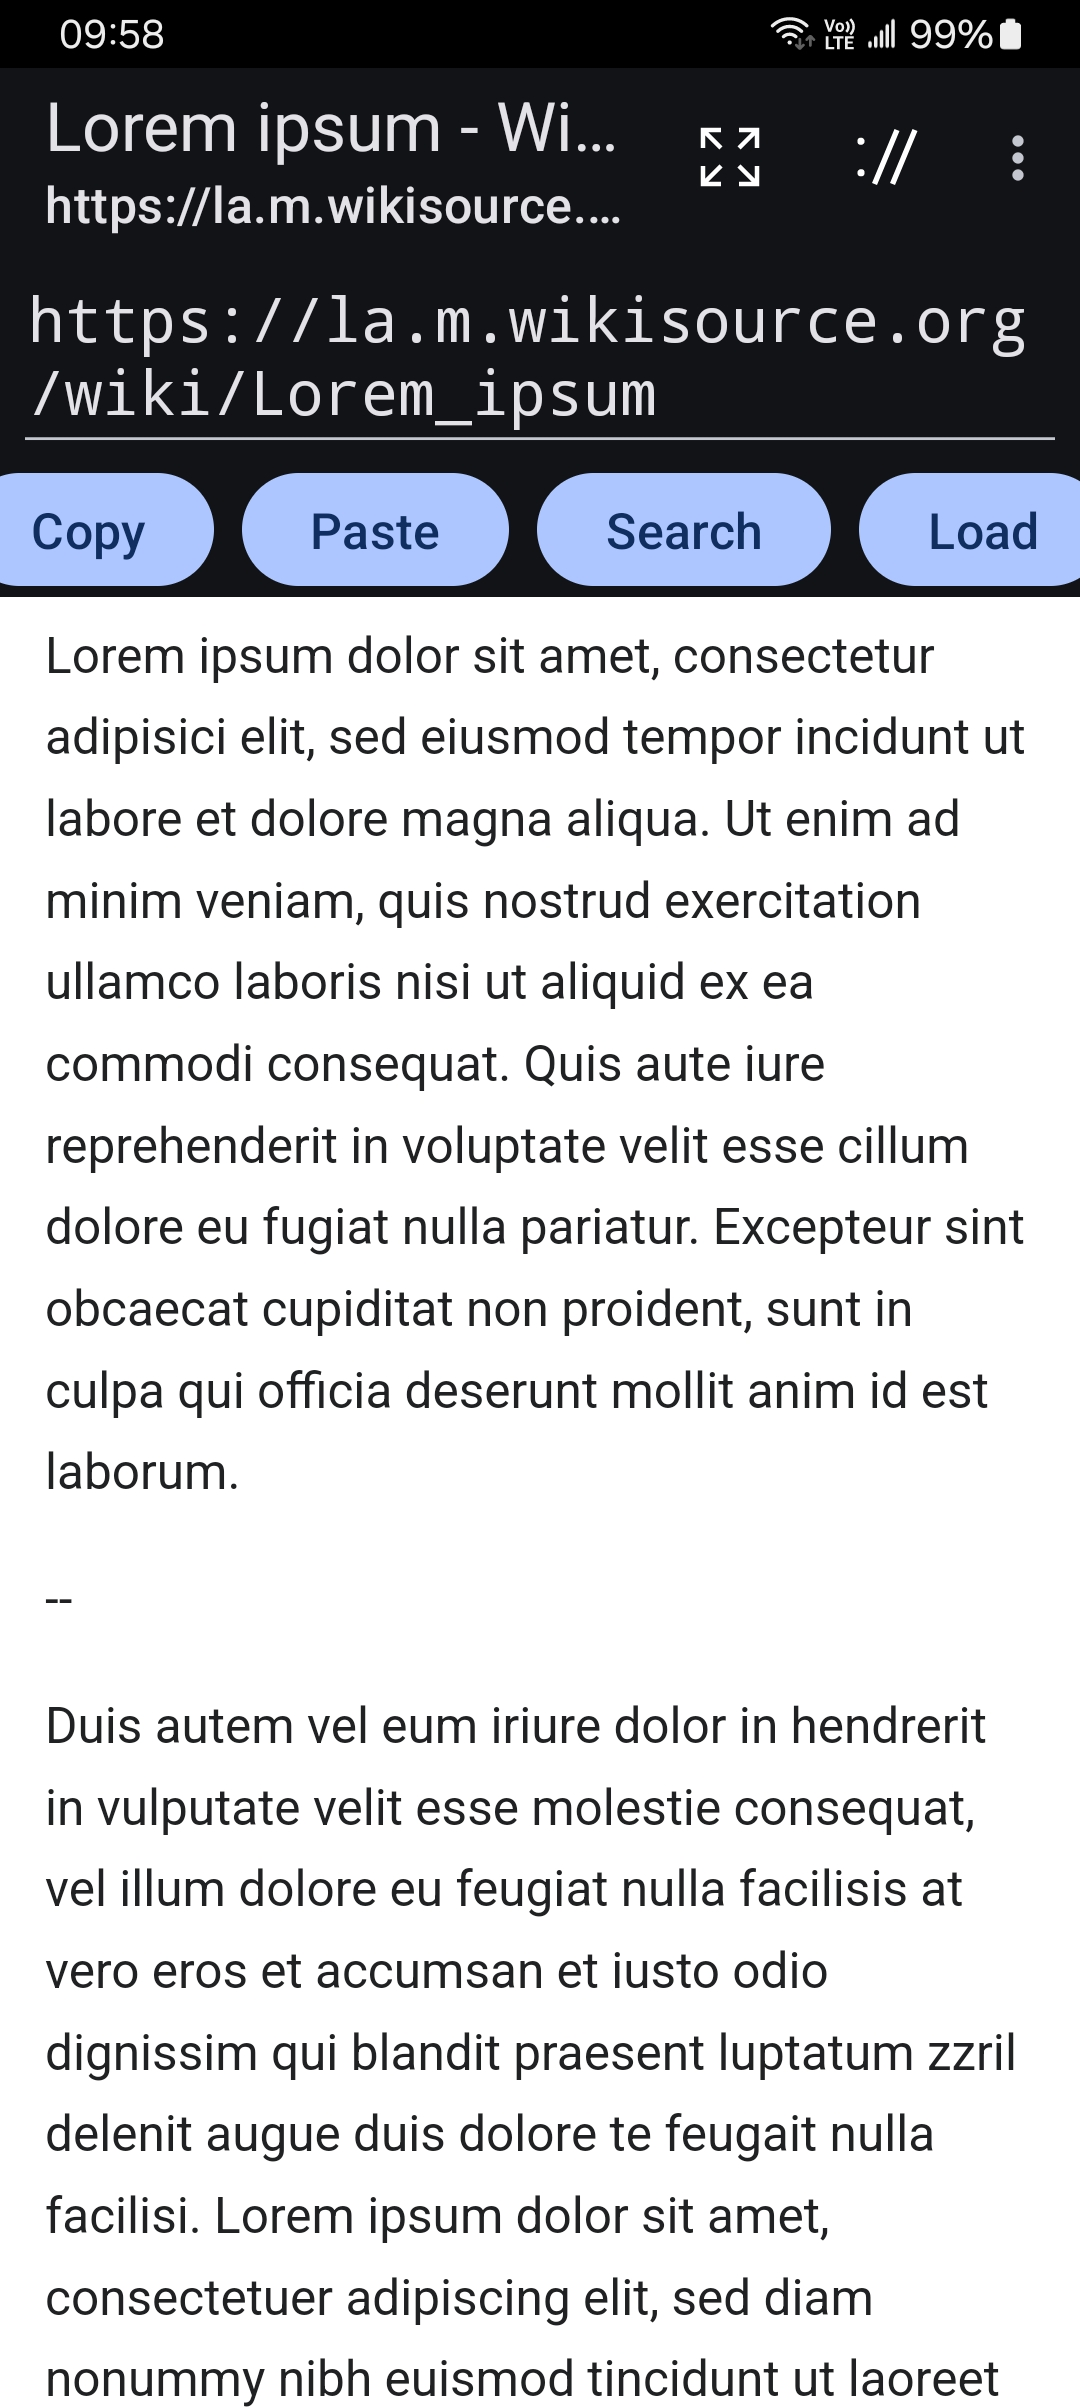
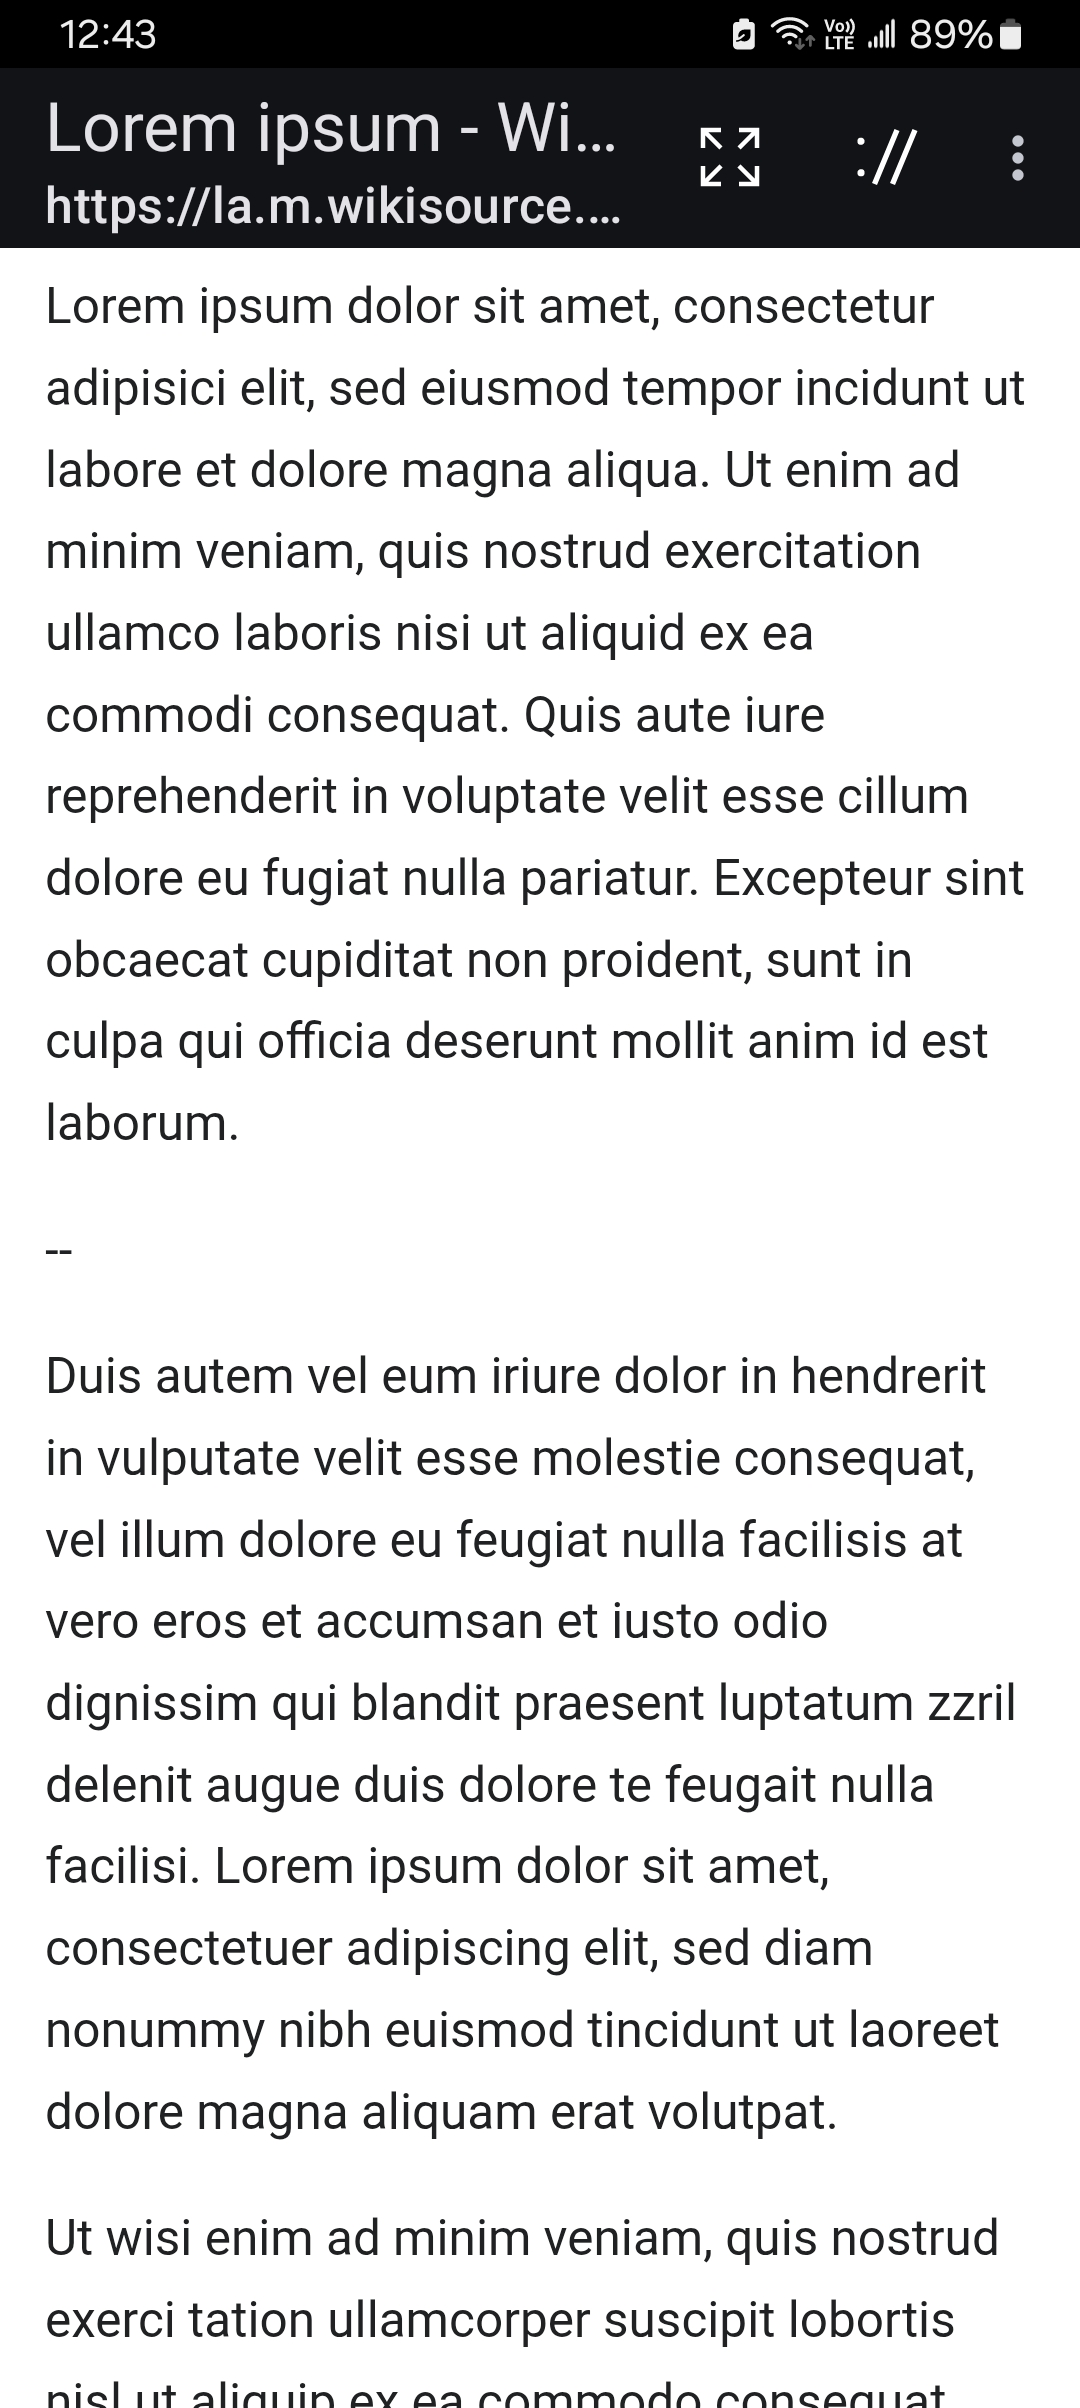
Change the privacy policy and the button shapes.

diff --git a/app/src/main/java/test/sls1005/projects/fundamentalbrowser/MainActivity.kt b/app/src/main/java/test/sls1005/projects/fundamentalbrowser/MainActivity.kt
@@ -105,22 +105,23 @@ open class MainActivity : ConfiguratedActivity() {
                 val button = findViewById<MaterialButton>(R.id.button_load).apply {
                     setClickable(false)
                 }
-                val url = findViewById<EditText>(R.id.url_field).text.toString().let {
-                    val textLooksLikeDomainWithoutScheme = (it.indexOf('.') != -1 && it.indexOf(':') == -1)
+                val rawInput = findViewById<EditText>(R.id.url_field).text.toString()
+                val url = run {
+                    val textLooksLikeDomainWithoutScheme = (rawInput.indexOf('.') != -1 && rawInput.indexOf(':') == -1)
                     val k = if (shouldRemoveLfAndSpacesFromUrl) { 2 } else { 1 }
                     val n = if (textLooksLikeDomainWithoutScheme) { 8 } else { 0 }
-                    buildString(n + (it.length) / k) {
+                    buildString(n + rawInput.length / k) {
                         if (textLooksLikeDomainWithoutScheme) {
                             append("https://")
                         }
                         if (shouldRemoveLfAndSpacesFromUrl) {
-                            for (c in it) {
+                            for (c in rawInput) {
                                 if (c != ' ' && c != '\n') {
                                     append(c)
                                 }
                             }
                         } else {
-                            append(it)
+                            append(rawInput)
                         }
                     }
                 }
@@ -144,8 +145,31 @@ open class MainActivity : ConfiguratedActivity() {
                 } else if (url.isEmpty()) {
                     showMsg(getString(R.string.error3), button)
                 } else if (scheme.isEmpty()) {
-                    val msg = getString(R.string.error, getString(R.string.failed_to_parse, url))
-                    showMsg(msg, button)
+                    (object: DialogFragment() {
+                        override fun onCreateDialog(savedInstanceState: Bundle?): Dialog {
+                            val ctx = requireActivity()
+                            return (AlertDialog.Builder(ctx).apply {
+                                setView(
+                                    layoutInflater.inflate(R.layout.issue_dialog, null).apply {
+                                        findViewById<TextView>(R.id.title).text = ctx.getString(R.string.parsing_issue_title)
+                                        findViewById<TextView>(R.id.issue).text = buildString {
+                                            append(ctx.getString(R.string.failed_to_parse_url, rawInput))
+                                            append('\n')
+                                            append(ctx.getString(R.string.confirm_search_instead))
+                                        }
+                                    }
+                                )
+                                setPositiveButton(R.string.ok) {_, _ ->
+                                    search(rawInput).also { success ->
+                                        if (!success && !isShowingLog() && maxLogMsgsAtomic.get() > 0) {
+                                            showLog()
+                                        }
+                                    }
+                                }
+                                setNegativeButton(R.string.cancel) {_, _ -> }
+                            }).create()
+                        }
+                    }).show(supportFragmentManager, null)
                 } else if (scheme.equals("intent", ignoreCase=true)) {
                     val code = showDialogForOpeningURLWithAnotherApp(url)
                     if (code == 1) {
@@ -195,19 +219,11 @@ open class MainActivity : ConfiguratedActivity() {
                 }
             }
             R.id.button_search -> run {
-                val button = findViewById<MaterialButton>(R.id.button_search)
-                val rawInput = findViewById<EditText>(R.id.url_field).text.toString()
-                if (searchURL.isEmpty()) {
-                    showMsg(getString(R.string.error1), button)
-                } else if (rawInput.isEmpty()) {
-                    showMsg(getString(R.string.error2), button)
-                } else {
-                    button.setClickable(false)
-                    hideUrlBar()
-                    hideLogIfShowing()
-                    load(searchURL + Uri.encode(rawInput.replace('\n', ' ')))
-                    button.setClickable(true)
+                val button = findViewById<MaterialButton>(R.id.button_search).apply {
+                    setClickable(false)
                 }
+                search(findViewById<EditText>(R.id.url_field).text.toString())
+                button.setClickable(true)
             }
             R.id.button_copy -> run {
                 findViewById<EditText>(R.id.url_field).run {
@@ -382,7 +398,7 @@ open class MainActivity : ConfiguratedActivity() {
                                         val ctx = requireActivity()
                                         return (AlertDialog.Builder(ctx).apply {
                                             setView(
-                                                layoutInflater.inflate(R.layout.confirm_loading_url, null).apply {
+                                                layoutInflater.inflate(R.layout.question_dialog, null).apply {
                                                     findViewById<TextView>(R.id.text1).text = buildSpannedString {
                                                         append(ctx.getString(
                                                             if (req.isRedirect) {
@@ -442,7 +458,7 @@ open class MainActivity : ConfiguratedActivity() {
                                     val ctx = requireActivity()
                                     return (AlertDialog.Builder(ctx).apply {
                                         setView(
-                                            layoutInflater.inflate(R.layout.confirm_loading_url, null).apply {
+                                            layoutInflater.inflate(R.layout.question_dialog, null).apply {
                                                 findViewById<TextView>(R.id.text1).text = ctx.getString(R.string.confirm_following_redirection_to_load_page, url)
                                             }
                                         )
@@ -1679,6 +1695,20 @@ open class MainActivity : ConfiguratedActivity() {
         }
     }
 
+    private inline fun search(keywords: String): Boolean {
+        return if (searchURL.isEmpty()) {
+            showMsg(getString(R.string.error1))
+            (false)
+        } else if (keywords.isEmpty()) {
+            showMsg(getString(R.string.error2))
+            (false)
+        } else {
+            hideUrlBar()
+            hideLogIfShowing()
+            load(searchURL + Uri.encode(keywords.replace('\n', ' ')))
+        }
+    }
+
     private inline fun disableJavaScriptAsRequested() {
         if (!shouldAllowJSForUrlsFromOtherApps) {
             shouldUseJavaScript = false
@@ -1700,7 +1730,7 @@ open class MainActivity : ConfiguratedActivity() {
                         val ctx = requireActivity()
                         return (AlertDialog.Builder(ctx).apply {
                             setView(
-                                layoutInflater.inflate(R.layout.confirm_loading_url, null).apply {
+                                layoutInflater.inflate(R.layout.question_dialog, null).apply {
                                     findViewById<TextView>(R.id.text1).text = buildSpannedString {
                                         append(ctx.getString(R.string.confirm_loading_page, url))
                                         if (isPDF || schemeIsHttp) {
